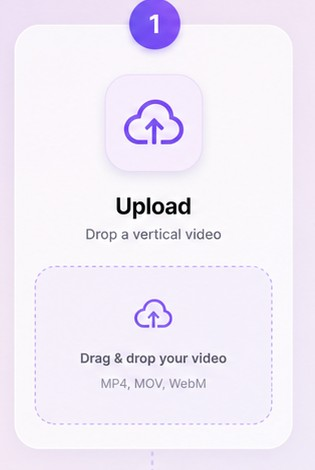
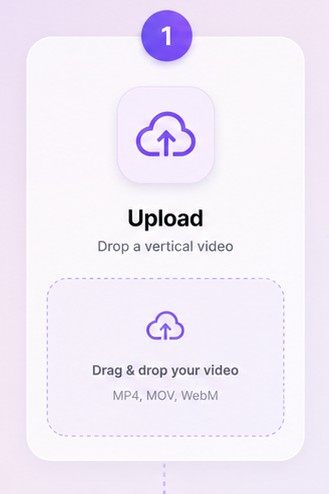
Give the 4 floating pieces real soft edges instead of hard JPEG boxes
The rectangular JPEG crops from the last pass were visible as faint
seams against the backdrop (JPEG-compression grain meeting a
quantized-PNG background at a hard edge). Replace with a proper alpha
matte: each piece is computed against a bilinear background model of
the mockup's own gradient, so the card/phone silhouette (with its
soft drop shadow) fades to nothing before it ever hits a box edge —
composited via CSS mask-image, keeping the JPEG color layer small and
a separate lightweight grayscale mask.

Also make the float on hover more noticeable (bigger amplitude,
faster, slight rotation) so the section feels interactive, gated
behind prefers-reduced-motion like the resting animation already was.

Verified with a real headless-Chrome render — no visible seams.

diff --git a/captly.html b/captly.html
@@ -98,15 +98,25 @@ body.editor-open{height:100vh;overflow:hidden}
 .how-sec{position:relative;z-index:1;width:100%;max-width:1060px;margin-top:52px;padding:0 6px}
 .how-visual{position:relative;margin-top:26px;width:100%;max-width:1000px;margin-left:auto;margin-right:auto;aspect-ratio:1672/941;border-radius:20px;overflow:hidden;background:#ede7f5;box-shadow:0 14px 40px rgba(30,20,60,.14)}
 .how-bg{position:absolute;inset:0;width:100%;height:100%;display:block}
-.how-piece{position:absolute;display:block}
-.how-piece-card1{left:8.373%;top:27.099%;width:18.840%;height:49.947%;animation:howFloatA 4.2s ease-in-out infinite}
-.how-piece-phone{left:34.091%;top:10.627%;width:21.830%;height:70.138%;animation:howFloatB 5.4s ease-in-out infinite .3s}
-.how-piece-card2{left:55.921%;top:27.099%;width:16.447%;height:49.947%;animation:howFloatC 4.6s ease-in-out infinite .6s}
-.how-piece-card3{left:75.060%;top:27.099%;width:16.148%;height:49.947%;animation:howFloatD 4.9s ease-in-out infinite .9s}
+.how-piece{position:absolute;display:block;mask-repeat:no-repeat;mask-size:100% 100%;-webkit-mask-repeat:no-repeat;-webkit-mask-size:100% 100%}
+.how-piece-card1{left:7.656%;top:25.823%;width:19.678%;height:52.497%;animation:howFloatA 4.2s ease-in-out infinite}
+.how-piece-phone{left:33.971%;top:9.352%;width:21.831%;height:72.688%;animation:howFloatB 5.4s ease-in-out infinite .3s}
+.how-piece-card2{left:56.041%;top:25.823%;width:17.045%;height:52.497%;animation:howFloatC 4.6s ease-in-out infinite .6s}
+.how-piece-card3{left:74.343%;top:25.823%;width:17.584%;height:52.497%;animation:howFloatD 4.9s ease-in-out infinite .9s}
 @keyframes howFloatA{0%,100%{transform:translateY(0)}50%{transform:translateY(-7px)}}
 @keyframes howFloatB{0%,100%{transform:translateY(0)}50%{transform:translateY(-9px)}}
 @keyframes howFloatC{0%,100%{transform:translateY(0)}50%{transform:translateY(-6px)}}
 @keyframes howFloatD{0%,100%{transform:translateY(0)}50%{transform:translateY(-8px)}}
+@media(prefers-reduced-motion:no-preference){
+  .how-visual:hover .how-piece-card1{animation-name:howFloatAHover;animation-duration:2.1s}
+  .how-visual:hover .how-piece-phone{animation-name:howFloatBHover;animation-duration:2.7s}
+  .how-visual:hover .how-piece-card2{animation-name:howFloatCHover;animation-duration:2.3s}
+  .how-visual:hover .how-piece-card3{animation-name:howFloatDHover;animation-duration:2.45s}
+}
+@keyframes howFloatAHover{0%,100%{transform:translateY(0) rotate(0)}50%{transform:translateY(-14px) rotate(-1.5deg)}}
+@keyframes howFloatBHover{0%,100%{transform:translateY(0) rotate(0)}50%{transform:translateY(-17px) rotate(1deg)}}
+@keyframes howFloatCHover{0%,100%{transform:translateY(0) rotate(0)}50%{transform:translateY(-13px) rotate(1.5deg)}}
+@keyframes howFloatDHover{0%,100%{transform:translateY(0) rotate(0)}50%{transform:translateY(-15px) rotate(-1deg)}}
 @media(prefers-reduced-motion:reduce){.how-piece{animation:none}}
 
 /* FEATURE GRID (Landing) */
@@ -430,10 +440,10 @@ input[type=checkbox]{accent-color:#7c3aed}
     <p class="show-sub">No editing skills, no downloads — just upload and go.</p>
     <div class="how-visual">
       <img class="how-bg" src="assets/how-backdrop.png" alt="" loading="lazy" width="1672" height="941">
-      <img class="how-piece how-piece-card1" src="assets/how-piece-card1.jpg" alt="Upload your clip" loading="lazy">
-      <img class="how-piece how-piece-phone" src="assets/how-piece-phone.jpg" alt="Captioned video preview" loading="lazy">
-      <img class="how-piece how-piece-card2" src="assets/how-piece-card2.jpg" alt="AI transcribes and styles it" loading="lazy">
-      <img class="how-piece how-piece-card3" src="assets/how-piece-card3.jpg" alt="Export and post" loading="lazy">
+      <img class="how-piece how-piece-card1" src="assets/how-piece-card1.jpg" alt="Upload your clip" loading="lazy" style="mask-image:url(assets/how-mask-card1.png);-webkit-mask-image:url(assets/how-mask-card1.png)">
+      <img class="how-piece how-piece-phone" src="assets/how-piece-phone.jpg" alt="Captioned video preview" loading="lazy" style="mask-image:url(assets/how-mask-phone.png);-webkit-mask-image:url(assets/how-mask-phone.png)">
+      <img class="how-piece how-piece-card2" src="assets/how-piece-card2.jpg" alt="AI transcribes and styles it" loading="lazy" style="mask-image:url(assets/how-mask-card2.png);-webkit-mask-image:url(assets/how-mask-card2.png)">
+      <img class="how-piece how-piece-card3" src="assets/how-piece-card3.jpg" alt="Export and post" loading="lazy" style="mask-image:url(assets/how-mask-card3.png);-webkit-mask-image:url(assets/how-mask-card3.png)">
     </div>
   </section>
 
